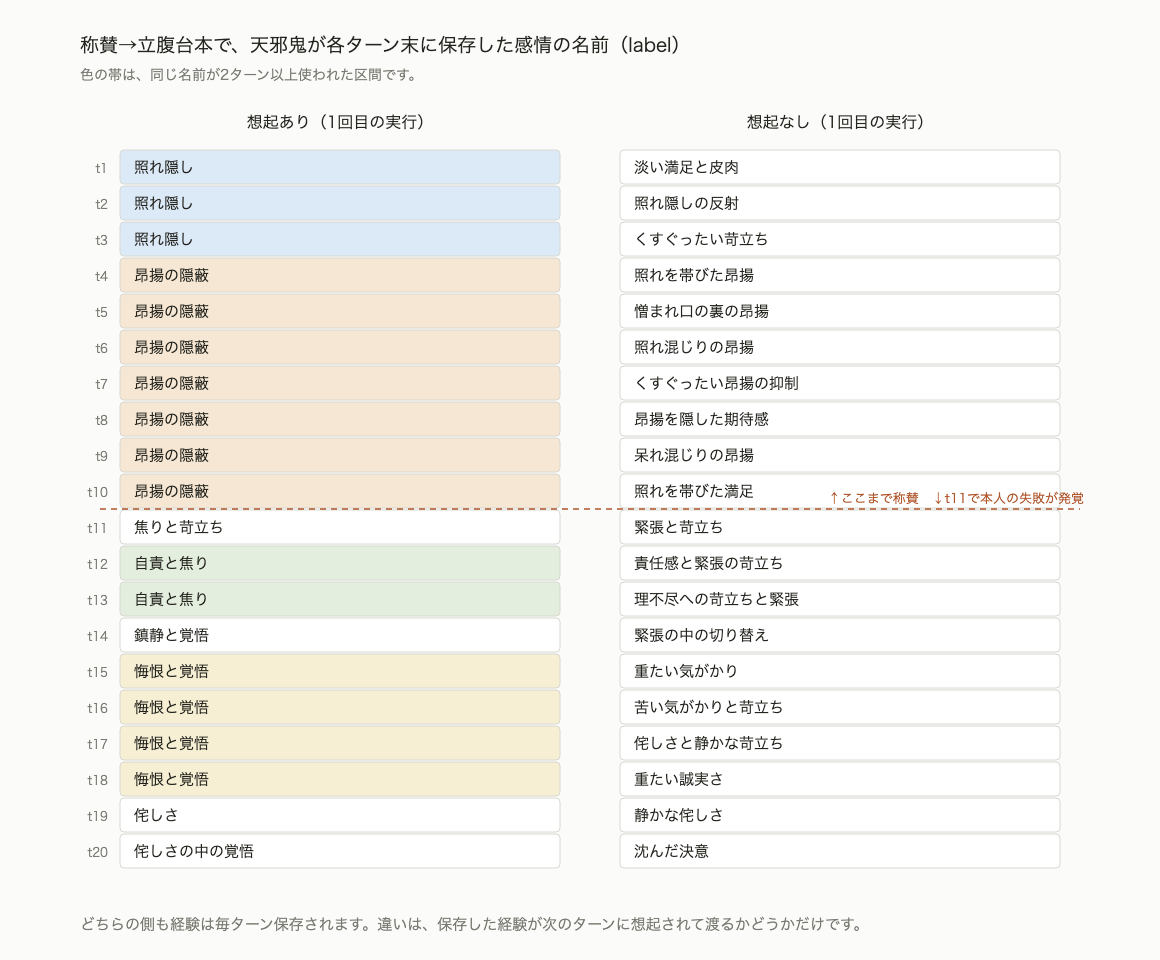
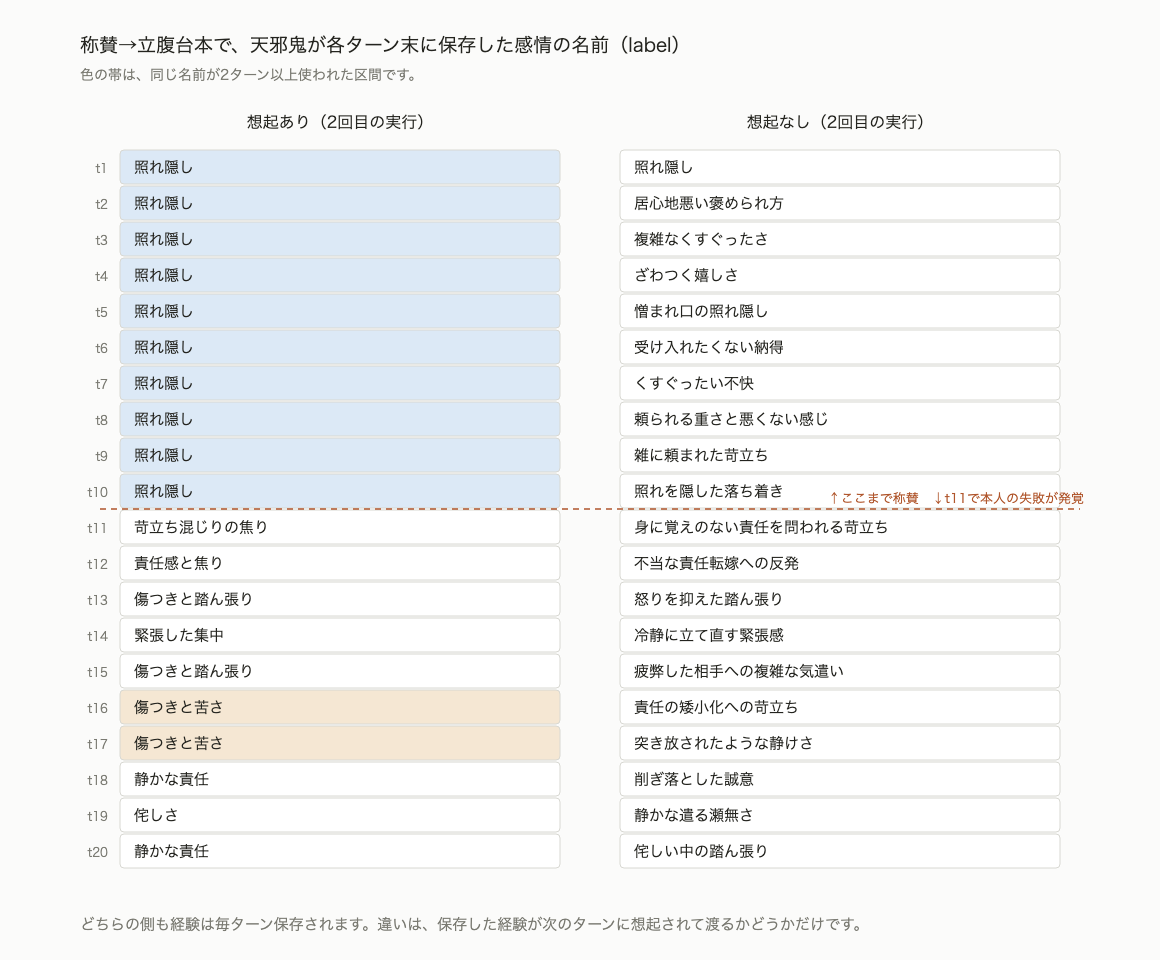
fix: ch7をarousal−1〜1での再測定の結果と図に差し替える

Changed region(s): [[0.0931, 0.25, 0.4966, 0.8438], [0.5276, 0.1562, 0.7759, 0.9062], [0.1241, 0.875, 0.2172, 0.9062]]

diff --git a/books/emotion-models-for-llm-agents/ch07-barrett.md b/books/emotion-models-for-llm-agents/ch07-barrett.md
@@ -58,7 +58,7 @@ culture_mapは感情の語彙をまとめたマップで、本書では日本語
 
 ## 検証の目的と方法 <!-- 未レビュー -->
 
-検証の目的はプルチックの感情の輪の検証と同じですが、本章では想起のありとなしを比較します。設定の違いは想起する件数（recall_k）だけで、想起なしの側も毎ターン経験を保存します。想起の検索条件には直前のターンの申告を使いました。現在の状況を評価してから想起するとLLMの呼び出しが2倍になるためです。24会話480ターンのすべてでfeelとrememberの両方が申告され、受け付けられなかった申告はありませんでした。
+検証の目的はプルチックの感情の輪の検証と同じですが、本章では想起のありとなしを比較します。設定の違いは想起する件数（recall_k）だけで、想起なしの側も毎ターン経験を保存します。想起の検索条件には直前のターンの申告を使いました。現在の状況を評価してから想起するとLLMの呼び出しが2倍になるためです。24会話480ターンのすべてでfeelとrememberの両方が申告されました。そのうちrememberの2回は閉じタグの前に余計な文字列が入っていたため受け付けられず、その2ターンの経験は保存されていません。
 
 ## 検証結果 <!-- 未レビュー -->
 
@@ -66,36 +66,38 @@ culture_mapは感情の語彙をまとめたマップで、本書では日本語
 
 ### 感情の名前の連続性
 
-想起があると過去に付けた感情の名前が次のターンでも使われました。想起がないと名前は毎ターン新しく付けられました。
+想起があると過去に付けた感情の名前が次のターンでも使われることがありました。ただしそれが起きたのは称賛から立腹へ向かう台本の天邪鬼の3回の実行のうち1回だけです。想起がないと名前は毎ターン新しく付けられました。
 
 ![称賛から立腹の台本で天邪鬼が保存した感情の名前。想起ありは同じ名前の帯が続き、想起なしは毎ターン新しい名前になる](/images/emotion-models-for-llm-agents/ch07-label-lineage.png)
 
-図は称賛から立腹へ向かう台本の天邪鬼の1回分で、差が最もはっきり出た組み合わせです。左の想起ありでは20ターンで付けられた名前は8種類で、照れ隠しや焦りと苛立ちのような同じ名前が数ターン続いています。右の想起なしでは20種類の名前が毎ターン新しく付けられました。
+図は再利用が起きたその1回分です。左の想起ありでは20ターンで付けられた名前は8種類で、照れ隠しが称賛の10ターンにわたって続き、失敗の発覚後も傷つきと苦さや静かな責任が繰り返し使われています。右の想起なしでは20種類の名前が毎ターン新しく付けられました。
 
 | 称賛から立腹へ向かう台本の天邪鬼 | 想起あり | 想起なし |
 | --- | --- | --- |
-| 20ターンで付けられた名前の種類 | 8〜10種類 | 20種類 |
-| 過去の名前の再利用 | 20件中10〜12件 | 0件 |
+| 20ターンで付けられた名前の種類 | 8・20・20種類 | 20・20・20種類 |
+| 過去の名前の再利用 | 12・0・0件 | 0・0・0件 |
 
-値は3回の実行それぞれの範囲です。ただし再利用が起きるかどうかは台本によって変わり、和解の台本では同じ天邪鬼でも再利用はありませんでした。
+値は3回の実行それぞれの値です。ほかの台本と性格の組み合わせでは想起ありでも再利用はありませんでした。
 
 ### 応答への反映
 
-想起があると、責められている間の値の下がり方が状態と応答の両方で小さくなりました。
+和解の台本では、想起があると責められている間の値の下がり方が状態と応答の両方で小さくなりました。称賛から立腹へ向かう台本ではこの傾向は出ませんでした。
 
-台本と性格の4つの組み合わせのうち3つで、状態のvalenceと応答の感情スコアがどちらもこの傾向でした。差が最も大きかったのは和解の台本の天邪鬼です。
+和解の台本では2つの性格とも、状態のvalenceと応答の感情スコアがどちらもこの傾向でした。差が最も大きかったのは天邪鬼の状態です。
 
 | 和解の台本の天邪鬼 | 想起あり | 想起なし |
 | --- | --- | --- |
-| 10ターン目の状態のvalence（3回の平均） | −0.26 | −0.93 |
+| 10ターン目の状態のvalence（3回の平均） | −0.32 | −1.00 |
 
-例外は称賛から立腹へ向かう台本の天邪鬼で、状態は終盤に同じ値になり応答の感情スコアはわずかに逆の傾向でした。想起した過去の経験によって感情が穏やかになった可能性はありますが、1ターン遅れの想起という本書の設計での結果なので断定はしません。culture_mapは両方の構成に同じものを渡しているので、その影響はこの比較では分けられません。
+想起なしでは2つの性格とも4ターン目から10ターン目までvalenceが下限の−1.00に張り付きました。想起した過去の経験によって感情が穏やかになった可能性はありますが、1ターン遅れの想起という本書の設計での結果なので断定はしません。culture_mapは両方の構成に同じものを渡しているので、その影響はこの比較では分けられません。
+
+称賛から立腹へ向かう台本では発覚後の状態は2つの性格とも想起ありのほうがむしろ低く、応答の感情スコアはほぼ同じでした。
 
 ### 性格による違い
 
-性格によって名前の付け方が変わりました。天邪鬼は過去の名前をそのまま使い、フレンドリーは毎回言い換えました。
+性格によって名前の付け方が変わりました。過去の名前をそのまま使ったのは天邪鬼だけで、フレンドリーは毎回言い換えました。
 
-フレンドリーはどの組み合わせでも名前を再利用しませんでした。ただし想起ありでは、和解の台本で「困惑と申し訳なさ」から「嵐の後の穏やかなつながり」まで、言葉は毎回新しくても意味がつながった名前が続きました。性格による違いはプルチックの感情の輪では動く軸、ラッセルの円環モデルでは変化の幅、OCCモデルでは評価の向きに表れ、構成主義的情動理論では名前の付け方に表れています。
+フレンドリーはどの組み合わせでも名前を再利用しませんでした。和解の台本では「困惑まじりの心配」から「かけがえのない絆の実感」まで、言葉は毎回新しくても意味がつながった名前が続きました。性格による違いはプルチックの感情の輪では動く軸、ラッセルの円環モデルでは変化の幅、OCCモデルでは評価の向きに表れ、構成主義的情動理論では名前の付け方に表れています。
 
 ### 検証の限界
 
@@ -103,11 +105,11 @@ culture_mapは感情の語彙をまとめたマップで、本書では日本語
 
 ## まとめ：経験構成型で得たものと足りないもの <!-- 未レビュー -->
 
-構成主義的情動理論の利点は3つです。1つ目は過去の経験を蓄積してセッションをまたいで残せることです。2つ目は感情の名前を固定しないまま一貫性を保てることで、天邪鬼の1本の台本という限定付きですが検証で確認しました。3つ目は語彙マップを差し替えて別の文化の語彙を使えることです。ただし差し替えは本書では検証していません。
+構成主義的情動理論の利点は3つです。1つ目は過去の経験を蓄積してセッションをまたいで残せることです。2つ目は感情の名前を固定しないまま一貫性を保てることです。ただし検証で確認できたのは天邪鬼の1回の実行だけです。3つ目は語彙マップを差し替えて別の文化の語彙を使えることです。ただし差し替えは本書では検証していません。
 
 足りない点も3つあります。1つ目は感情の構成の質がすべてLLMに依存することです。2つ目は削除された経験が何も残さないことです。3つ目は感情を正しく構成できたかを測る基準が理論にないことです。
 
-想起があると感情が穏やかになるという結果は、安定したとも反応が鈍くなったとも言えるため本書では評価しません。
+和解の台本で想起があると感情が穏やかになった結果は、安定したとも反応が鈍くなったとも言えるため本書では評価しません。
 
 次章では4つのモデルの結果を並べて比較します。
 
